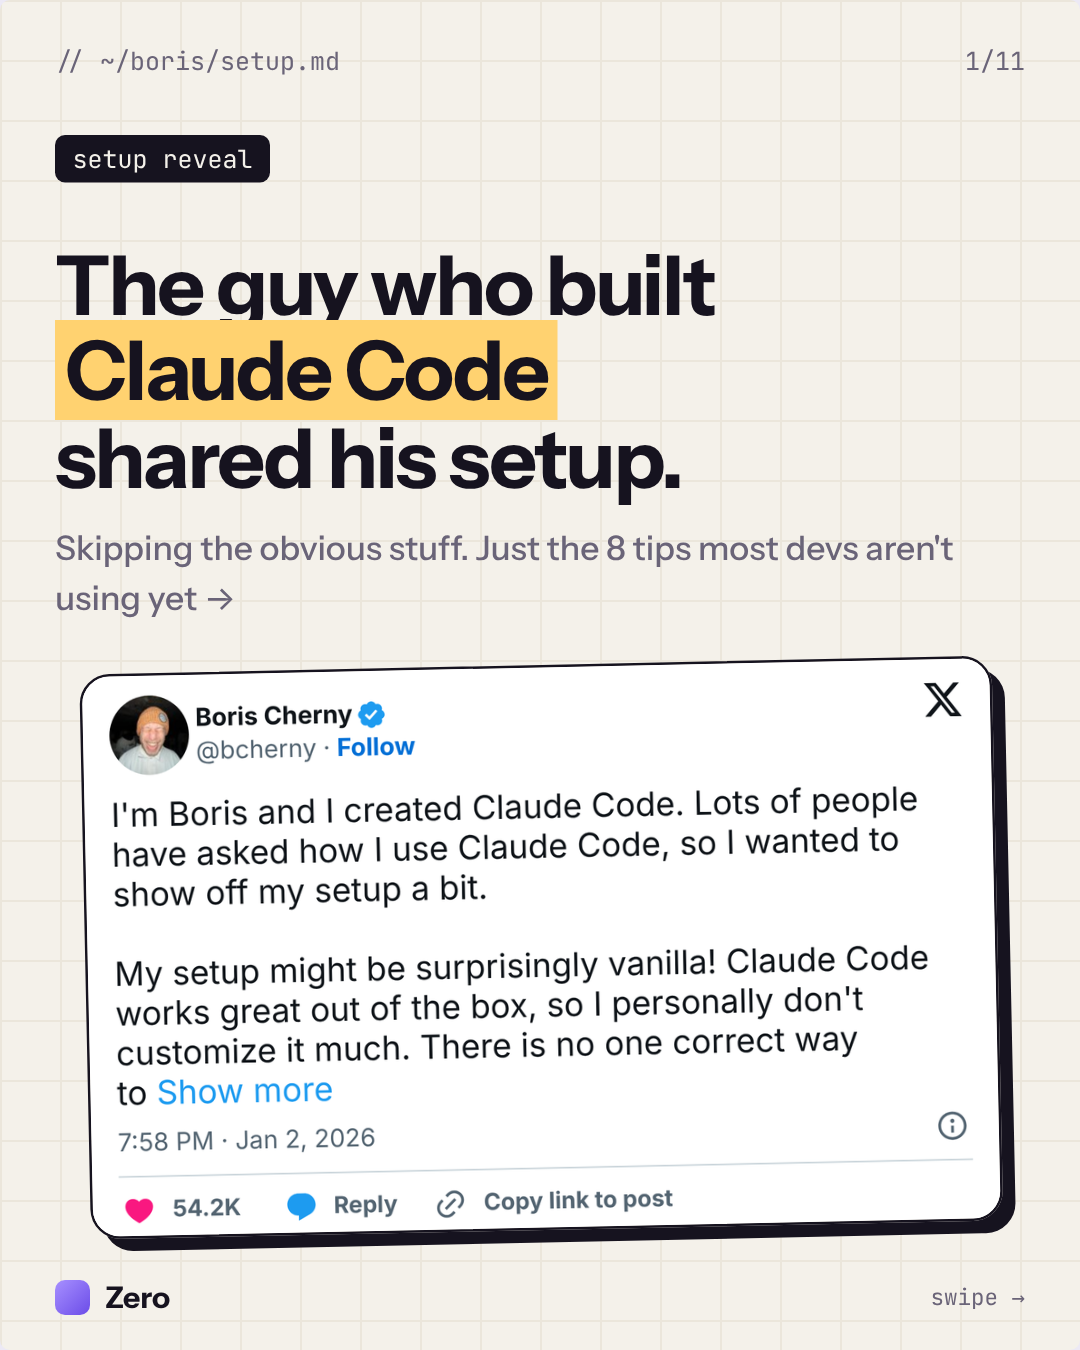
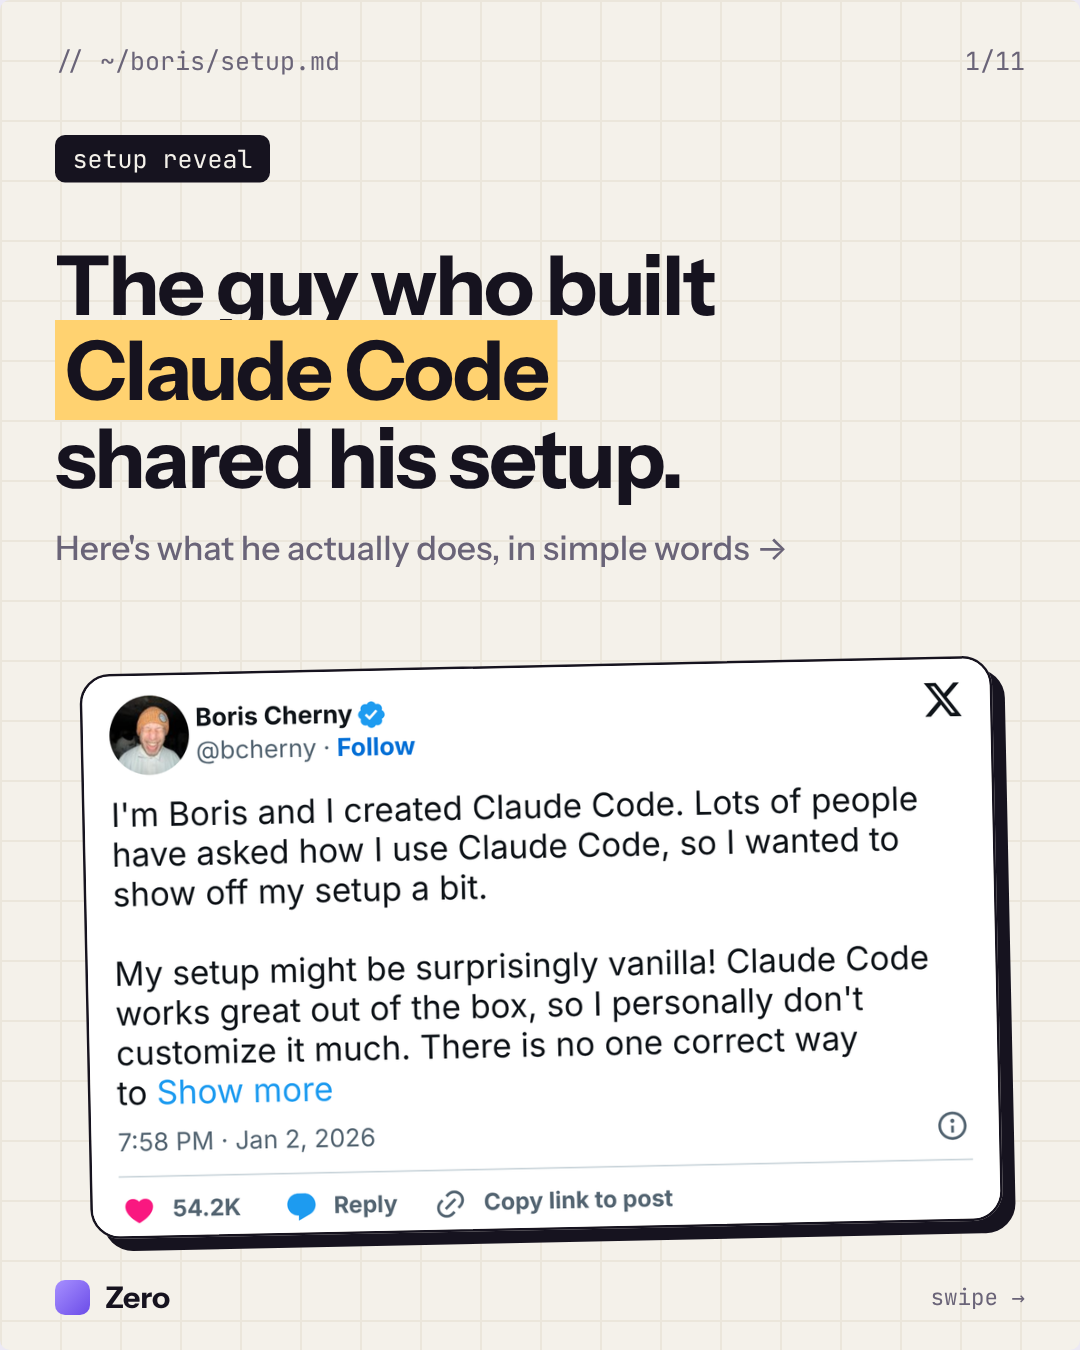
Simplify Boris cover subline
Claude-Session: https://claude.ai/code/session_01EodZgjd13DjtzjPJnHAn5H

Changed region(s): [[0.0611, 0.3733, 0.8556, 0.4667]]

diff --git a/carousels/setups.html b/carousels/setups.html
@@ -146,7 +146,7 @@ function slides(s){
  a.push(fr(s,1,`
   <p class="tag" style="align-self:flex-start">setup reveal</p>
   <h2 class="h1" style="margin-top:14px;${s.tweet?"font-size:33px":""}">${s.hook.join("<br>")}</h2>
-  <p class="p muted" style="margin-top:10px;${s.tweet?"font-size:13.5px":""}">${s.tweet?"Skipping the obvious stuff. Just the "+s.t.length+" tips most devs aren't using yet →":s.sub}</p>
+  <p class="p muted" style="margin-top:10px;${s.tweet?"font-size:13.5px":""}">${s.tweet?"Here's what he actually does, in simple words →":s.sub}</p>
   ${s.tweet?`<img src="${s.tweet}" alt="Boris Cherny's original post on X" style="margin-top:auto;margin-bottom:8px;width:94%;align-self:center;border:1.5px solid var(--ink);border-radius:12px;box-shadow:5px 5px 0 var(--ink);transform:rotate(-1.2deg)">`:""}
   <div style="margin-top:auto;${s.tweet?"display:none":""}">${W(s.file,`<div class="term"><span class="m">who:</span> ${s.who}<br><span class="m">role:</span> ${s.role}<br><span class="m">source:</span> ${s.src}<br><span class="g">${s.t.length===3?"3 things worth stealing":"all "+s.t.length+" things, one per slide"} →</span></div>`)}</div>`));
  s.t.forEach((t,k)=>a.push(fr(s,k+2,`
